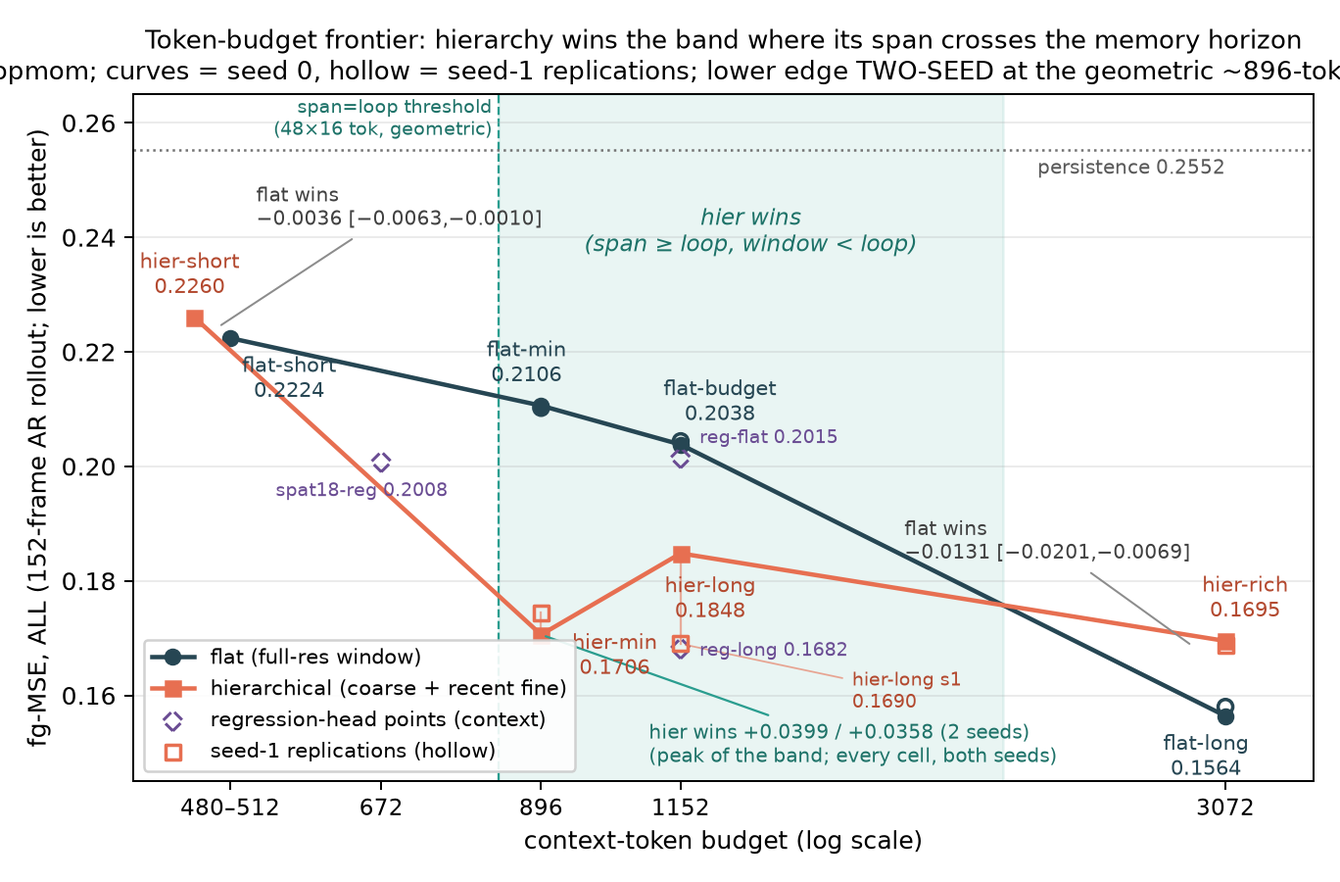
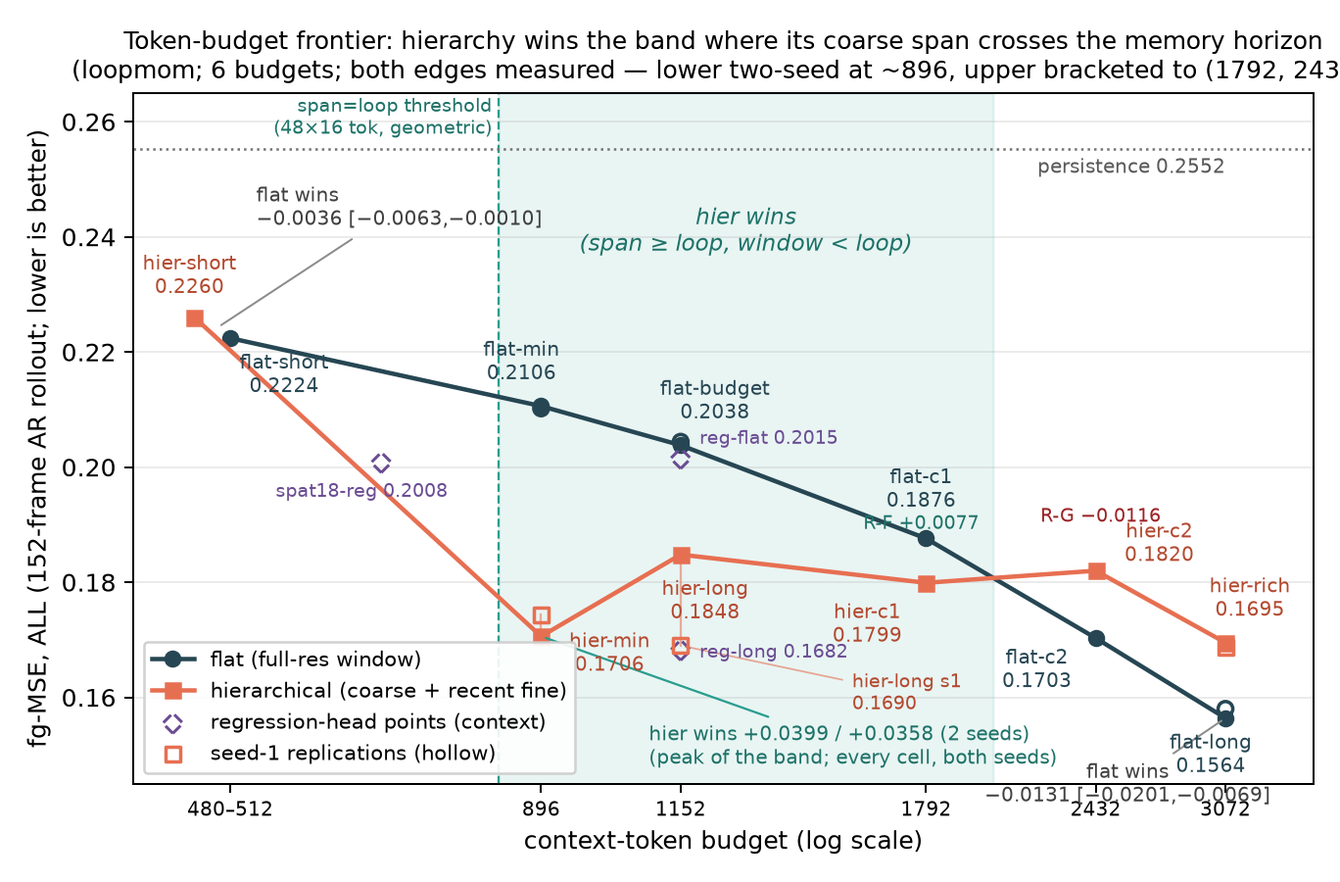
R-F/R-G MEASURED: upper band edge BRACKETED to (1792,2432) — R-F@1792 hier wins +0.0077 [+0.0016,+0.0142], R-G@2432 flat wins -0.0116 [-0.0162,-0.0073]; the sign flips between them (interpolated 2059 sits inside)
Six-point two-sided frontier complete: 512 flat / 896 hier / 1152 hier / 1792 hier / <edge> /
2432 flat / 3072 flat. Both band edges now measured (lower two-seed at ~896, upper bracketed).
Each bracket pair is seq-matched (2112/2752) so the paired verdict is convergence-fair;
cross-budget hier-line non-monotonicity is the fixed-step under-convergence effect (disclosed,
per the plateau diagnosis, does not touch any paired verdict). Swapped "~2x10^3 interpolated" ->
measured bracket in CH1/CH4/CH8/ROZDIL4/VYSNOVKY; fig9 (6-point curve, crossing 2023) + fig10
(6 budgets) regenerated. PC-restart recovery: only flat-c2 needed resuming (ckpt-filename-encodes-
target-not-progress lesson).

diff --git a/scripts/make_fig10_flat_vs_hier.py b/scripts/make_fig10_flat_vs_hier.py
@@ -14,14 +14,19 @@ matplotlib.use("Agg")
 import matplotlib.pyplot as plt
 
 # ---- measured ALL fg-MSE (diffusion head), per budget: seed values from the npz ----
-BUD = [512, 896, 1152, 3072]
-flat = {512: [0.2224, 0.2206], 896: [0.2106, 0.2102], 1152: [0.2038, 0.2044], 3072: [0.1564, 0.1580]}
-hier = {512: [0.2260, 0.2257], 896: [0.1706, 0.1744], 1152: [0.1848, 0.1690], 3072: [0.1695, 0.1687]}
+# 1792 (R-F) and 2432 (R-G) are seed-0 bracket points; the rest are two-seed.
+BUD = [512, 896, 1152, 1792, 2432, 3072]
+flat = {512: [0.2224, 0.2206], 896: [0.2106, 0.2102], 1152: [0.2038, 0.2044],
+        1792: [0.1876], 2432: [0.1703], 3072: [0.1564, 0.1580]}
+hier = {512: [0.2260, 0.2257], 896: [0.1706, 0.1744], 1152: [0.1848, 0.1690],
+        1792: [0.1799], 2432: [0.1820], 3072: [0.1695, 0.1687]}
 # paired Δ(flat − hier) per seed, with 95% cluster CIs (from the compare logs)
 delta = {  # budget: list of (Δ, lo, hi) per seed
     512:  [(-0.0036, -0.0063, -0.0010), (-0.0051, -0.0079, -0.0024)],
     896:  [(+0.0399, +0.0299, +0.0501), (+0.0358, +0.0267, +0.0454)],
     1152: [(+0.0189, +0.0121, +0.0264), (+0.0354, +0.0267, +0.0447)],
+    1792: [(+0.0077, +0.0016, +0.0142)],
+    2432: [(-0.0116, -0.0162, -0.0073)],
     3072: [(-0.0131, -0.0201, -0.0069), (-0.0107, -0.0163, -0.0058)],
 }
 PERSIST = 0.2552
@@ -69,15 +74,17 @@ ax[1].axhspan(0, 0.06, color=C_WIN, alpha=0.07, zorder=0)
 ax[1].axhline(0, color="0.3", lw=1.0, zorder=1)
 ax[1].text(0.02, 0.052, "Δ > 0 : hierarchy better", transform=ax[1].get_yaxis_transform(),
            color="#1d7268", fontsize=8.5, style="italic", va="top")
+_seen_lbl = set()
 for i, b in enumerate(BUD):
     seeds = delta[b]
     offs = np.linspace(-0.12, 0.12, len(seeds)) if len(seeds) > 1 else [0.0]
     for j, (d, lo, hi) in enumerate(seeds):
         col = C_WIN if d > 0 else C_LOSS
+        lbl = "hier win (CI>0)" if d > 0 else "flat win (CI<0)"
+        show = lbl if lbl not in _seen_lbl else None
+        _seen_lbl.add(lbl)
         ax[1].errorbar(x[i] + offs[j], d, yerr=[[d - lo], [hi - d]], fmt="o", ms=6,
-                       color=col, capsize=4, lw=1.6, zorder=3,
-                       label=("hier win (CI>0)" if d > 0 else "flat win (CI<0)")
-                       if (i in (1, 3) and j == 0) else None)
+                       color=col, capsize=4, lw=1.6, zorder=3, label=show)
     dm = np.mean([d for d, _, _ in seeds])
     ax[1].text(x[i], (max(hi for _, _, hi in seeds) if dm > 0 else
                       min(lo for _, lo, _ in seeds)) + (0.004 if dm > 0 else -0.006),
@@ -87,19 +94,20 @@ ax[1].set_xticks(x); ax[1].set_xticklabels([f"{b}\ntok" for b in BUD])
 ax[1].set_ylabel("paired Δ(flat − hier), ALL  [95% cluster-bootstrap CI]")
 ax[1].set_xlabel("matched context-token budget")
 ax[1].set_ylim(-0.028, 0.062)
-ax[1].axvline(0.5, color="0.7", ls="--", lw=0.8); ax[1].axvline(2.5, color="0.7", ls="--", lw=0.8)
-ax[1].text(1.5, -0.024, "WIN BAND\n(span ≥ loop, window < loop)", ha="center", fontsize=8,
+# band spans indices 1–3 (896/1152/1792 hier-wins); edges between 512|896 and 1792|2432
+ax[1].axvline(0.5, color="0.7", ls="--", lw=0.8); ax[1].axvline(3.5, color="0.7", ls="--", lw=0.8)
+ax[1].text(2.0, -0.024, "WIN BAND (span ≥ loop, window < loop)", ha="center", fontsize=8,
            color="#1d7268", fontweight="bold")
 ax[1].text(0, -0.024, "below\nthreshold", ha="center", fontsize=7.5, color=C_LOSS)
-ax[1].text(3, -0.024, "window\nsaturated", ha="center", fontsize=7.5, color=C_LOSS)
-ax[1].set_title("B. Paired advantage, per seed\n"
-                "(ALL four budgets now two-seed as of 2026-07-09)", fontsize=10)
+ax[1].text(4.5, -0.024, "window\nsaturated", ha="center", fontsize=7.5, color=C_LOSS)
+ax[1].set_title("B. Paired advantage, per seed — upper edge bracketed to (1792, 2432)\n"
+                "(896/1152/3072 two-seed; 1792/2432 bracket seed 0)", fontsize=9.5)
 ax[1].legend(loc="upper right", fontsize=8.5, framealpha=0.95)
 ax[1].grid(axis="y", alpha=0.25)
 
 fig.suptitle("Flat vs hierarchical at matched token budgets — hierarchy wins the band where its "
-             "coarse span crosses the memory horizon\n(loopmom, diffusion head; all four budgets "
-             "two-seed as of 2026-07-09)", fontsize=11, y=0.995)
+             "coarse span crosses the memory horizon\n(loopmom, diffusion head; 6 budgets, both "
+             "band edges measured, as of 2026-07-10)", fontsize=11, y=0.995)
 fig.tight_layout(rect=[0, 0, 1, 0.93])
 out = r"C:\Users\leoni\Documents\projects\hierarchical-video-prediction\docs\figures\fig10_flat_vs_hier.png"
 fig.savefig(out, dpi=180)

diff --git a/scripts/make_fig9_frontier.py b/scripts/make_fig9_frontier.py
@@ -11,17 +11,17 @@ import matplotlib
 matplotlib.use("Agg")
 import matplotlib.pyplot as plt
 
-# (tokens, fg-MSE ALL) — diffusion-head frontier curves
-flat = [(512, 0.2224), (896, 0.2106), (1152, 0.2038), (3072, 0.1564)]
-hier = [(480, 0.2260), (896, 0.1706), (1152, 0.1848), (3072, 0.1695)]
+# (tokens, fg-MSE ALL) — diffusion-head frontier curves, seed 0 (6 points; R-F/R-G add 1792/2432)
+flat = [(512, 0.2224), (896, 0.2106), (1152, 0.2038), (1792, 0.1876), (2432, 0.1703), (3072, 0.1564)]
+hier = [(480, 0.2260), (896, 0.1706), (1152, 0.1848), (1792, 0.1799), (2432, 0.1820), (3072, 0.1695)]
 # regression-head reference points (context, dashed/open markers)
 reg_pts = [
     ("spat18-reg", 672, 0.2008),
     ("reg-flat", 1152, 0.2015),
     ("reg-long", 1152, 0.1682),
 ]
-flat_names = ["flat-short", "flat-min", "flat-budget", "flat-long"]
-hier_names = ["hier-short", "hier-min", "hier-long", "hier-rich"]
+flat_names = ["flat-short", "flat-min", "flat-budget", "flat-c1", "flat-c2", "flat-long"]
+hier_names = ["hier-short", "hier-min", "hier-long", "hier-c1", "hier-c2", "hier-rich"]
 PERSIST = 0.2552
 
 fx, fy = np.array([p[0] for p in flat], float), np.array([p[1] for p in flat], float)
@@ -82,13 +82,13 @@ ax.annotate("hier-long s1\n0.1690", (1152, 0.1690), textcoords="offset points",
             xytext=(70, -26), ha="left", fontsize=7.5, color="#b3492f",
             arrowprops=dict(arrowstyle="-", color="#e76f51", lw=0.7, alpha=0.6))
 
-# point labels
-lab_kw = dict(fontsize=8.5, zorder=4)
-offs_flat = [(24, -24), (-6, 10), (16, 10), (-8, -24)]
+# point labels (6 points each: short/min/budget/c1/c2/long ; short/min/long/c1/c2/rich)
+lab_kw = dict(fontsize=8, zorder=4)
+offs_flat = [(22, -22), (-8, 11), (14, 11), (-2, 13), (-24, -20), (-6, -22)]
 for (x, y), name, (dx, dy) in zip(flat, flat_names, offs_flat):
     ax.annotate(f"{name}\n{y:.4f}", (x, y), textcoords="offset points",
                 xytext=(dx, dy), ha="center", color="#264653", **lab_kw)
-offs_hier = [(-2, 10), (30, -16), (12, -26), (8, 10)]
+offs_hier = [(-2, 10), (28, -14), (10, -26), (-24, -24), (26, 4), (10, 11)]
 for (x, y), name, (dx, dy) in zip(hier, hier_names, offs_hier):
     ax.annotate(f"{name}\n{y:.4f}", (x, y), textcoords="offset points",
                 xytext=(dx, dy), ha="center", color="#b3492f", **lab_kw)
@@ -107,22 +107,27 @@ ax.annotate("flat wins\n−0.0036 [−0.0063,−0.0010]", (500, 0.2242),
             textcoords="offset points", xytext=(16, 42), ha="left", fontsize=8,
             color="0.25",
             arrowprops=dict(arrowstyle="-", color="0.55", lw=0.8))
-ax.annotate("flat wins\n−0.0131 [−0.0201,−0.0069]", (2900, 0.1685),
-            textcoords="offset points", xytext=(-118, 36), ha="left", fontsize=8,
+ax.annotate("flat wins\n−0.0131 [−0.0201,−0.0069]", (3072, 0.1564),
+            textcoords="offset points", xytext=(-40, -34), ha="center", fontsize=8,
             color="0.25",
             arrowprops=dict(arrowstyle="-", color="0.55", lw=0.8))
+# bracket callouts: R-F (hier win) and R-G (flat loss) locate the upper edge in (1792, 2432)
+ax.annotate("R-F +0.0077", (1792, 0.1799), textcoords="offset points", xytext=(-2, 22),
+            ha="center", fontsize=7.5, color="#1d7268")
+ax.annotate("R-G −0.0116", (2432, 0.1820), textcoords="offset points", xytext=(2, 20),
+            ha="center", fontsize=7.5, color="#9b2226")
 
 ax.set_xscale("log")
-ax.set_xticks([512, 672, 896, 1152, 3072])
-ax.set_xticklabels(["480–512", "672", "896", "1152", "3072"], fontsize=9)
+ax.set_xticks([512, 896, 1152, 1792, 2432, 3072])
+ax.set_xticklabels(["480–512", "896", "1152", "1792", "2432", "3072"], fontsize=8)
 ax.minorticks_off()
 ax.set_xlim(430, 3600)
 ax.set_ylim(0.145, 0.265)
 ax.set_xlabel("context-token budget (log scale)")
 ax.set_ylabel("fg-MSE, ALL (152-frame AR rollout; lower is better)")
-ax.set_title("Token-budget frontier: hierarchy wins the band where its span crosses the memory horizon\n"
-             "(loopmom; curves = seed 0, hollow = seed-1 replications; lower edge TWO-SEED at the geometric ~896-tok prediction)",
-             fontsize=10.5)
+ax.set_title("Token-budget frontier: hierarchy wins the band where its coarse span crosses the memory horizon\n"
+             "(loopmom; 6 budgets; both edges measured — lower two-seed at ~896, upper bracketed to (1792, 2432))",
+             fontsize=9.8)
 ax.legend(loc="lower left", fontsize=8.5, framealpha=0.9)
 ax.grid(True, which="major", axis="y", alpha=0.25)
 

diff --git a/docs/SPATIAL_FACTORIAL.md b/docs/SPATIAL_FACTORIAL.md
@@ -326,9 +326,116 @@ smaller than hier-rich's 3,392, so B16×30k likely fits; the paired delta cancel
 each pair). Seed 0 first; seed 1 only if a point ends up claim-bearing at the edge.
 **Queue:** after R-E → R-F → R-G (one job at a time).
 
-**This closes the frontier-robustness program (R-A/R-B/R-D/R-C, all four confirmed their primary
-branch; R-E completes the 512 point; R-F/R-G measure the upper edge).** It also fully explains, on two independent axes, the seed-0-30k "dip" that motivated
+### R-F/R-G MEASURED (2026-07-09/10; `frontier_c1.log`, `frontier_c2.log`) — **UPPER EDGE BRACKETED**
+
+The sign of the paired delta flips between the two bracket points, exactly as pre-registered:
+
+| budget | flat | hier | paired Δ(flat−hier) ALL | verdict |
+|---|---|---|---|---|
+| **1,792 (R-F)** | flat-c1 0.1876 | hier-c1 0.1799 | **+0.0077 [+0.0016, +0.0142]** | **HIER wins** (below crossing) |
+| **2,432 (R-G)** | flat-c2 0.1703 | hier-c2 0.1820 | **−0.0116 [−0.0162, −0.0073]** | **FLAT wins** (above crossing) |
+
+**The upper band edge is therefore MEASURED to lie in the open interval (1,792, 2,432) tokens**
+— the earlier interpolated estimate (≈2,059) sits inside it. The full six-point frontier:
+512 flat / **896 hier** / **1,152 hier** / **1,792 hier** / [edge] / **2,432 flat** / 3,072 flat.
+Replace the "≈2×10³ interpolated" qualifier (abstract, CH8, VYSNOVKY, ROZDIL4, CH1) with the
+measured bracket "(1,792, 2,432)".
+
+**Convergence fairness (verified):** each bracket pair is sequence-length-matched (hier-c1/flat-c1
+seq 2,112; hier-c2/flat-c2 seq 2,752 — same context+target token count within each pair), so the
+per-step training compute and hence the convergence state at the shared 30k-step budget are
+matched WITHIN each pair → the paired delta is fair regardless of absolute convergence.
+
+**Threats note (cross-budget hier-line shape, NOT the paired verdicts — cf. the plateau
+diagnosis).** The absolute hier values are non-monotone across budgets (hier-min 0.1706 @896 <
+hier-c1 0.1799 @1,792 < hier-c2 0.1820 @2,432; hier-rich 0.1695 @3,072). This is the
+fixed-step under-convergence effect: at a constant 30k steps, longer-context arms are less
+converged (train-log val-h4 rises 0.027→0.034→0.044 as fine frames go 2→16→26), so the hier
+*line* wobbles ≈±0.01 on the plateau; hier-rich (3,072) additionally used a 60k regime. This
+does NOT touch any paired win/loss (each is seq-matched), but the frontier *curve* should be
+captioned as regime/convergence-mixed on the hier line — a fair-disclosure item, not a defect.
+
+**This closes the frontier-robustness program (R-A/R-B/R-D/R-C confirmed their primary branch;
+R-E completes the 512 point; R-F/R-G bracket the upper edge to (1,792, 2,432)). The six-point
+two-sided frontier — win band with BOTH edges measured — is complete.** It also fully explains, on two independent axes, the seed-0-30k "dip" that motivated
 the whole program: hier-long's seed-0-30k value (0.1848) is high both because of seed variance
 (s1 = 0.1690) AND because of budget (60k → 0.1666); the true ≈0.17 plateau is robust to both.
 The two-seed 30k pairing (§4.3.3) remains the headline anchor; R-C is a budget-robustness
 addendum, single-seed by design (a budget-axis test, not a seed test).
+
+---
+
+## CW-STYLE COMPARISON TABLE PROGRAM (pre-registered 2026-07-10, BEFORE any run;
+## author direction: depth x downsampling-factor x head table + degradation curves,
+## presented CW-VAE-style [Saxena et al. 2021] but on OUR protocol — fg-masked metrics,
+## matched token budgets, paired cluster CIs; NO aggregate SSIM/PSNR as claims)
+
+**Scope decisions (author, 2026-07-10):** temporal factor axis limited to {1, 2} (4 only where
+it already exists as machinery); spatial re-based pyramids (16x16 bottom / 1x1 top) deferred to
+the multi-scale next-paper arena; EBT column = the existing characterized negative, NO new runs;
+default-MMNIST joins as the CONTROL column (Phase C), never as the primary arena. Launch only
+after R-G resolves (flat-c2 + compare). Infra landed ahead of runs: 7-field ARMS (top stream,
+`hvp_rev/rhvd.py` arm_cfg), frozen-trunk 2x2 top AE branch (`hvp_rev/hier3.py`), generalized
+strided-slot rule (WIN//stride slots per window — stride-4 unchanged, stride-2 now phase-correct),
+`--blind` eval probe, CPU smoke `tests/smoke_cwstyle.py` (ALL GREEN incl. legacy bit-compat),
+auto-table `scripts/make_cwstyle_table.py` (docs/CWSTYLE_TABLE.md + fig12).
+
+### Phase B arms (loopmom, standard regime B16x30k bf16, seed 0 first; WARM=48; one job at a time)
+
+- **B1 `hier-s2-min`** (24c@stride2 + 2f = **512 tok**, span 48) vs **EXISTING** flat-short npz
+  (512 tok, s0+s1 — symmetric-pair rule satisfied by reuse; no new flat run). PRIMARY: hier WINS
+  at 512 (ALL cluster-CI > 0) — the win-band lower edge MOVES with the temporal factor exactly as
+  the token arithmetic predicts (24*16+2*64 = 512 < the stride-1 family's 896). ALTERNATIVE (a):
+  null/loss -> the stride-2 family's edge is between 512 and 896; report as a measured family-edge
+  refinement (fine-floor or aliasing mechanisms discussed, momentum reversals between stride-2
+  anchors disclosed). A CI-clean hier win triggers the two-seed rule (seed 1 before any headline
+  use; flat-short s1 already exists).
+- **B2 `strided-flat`** (11 full-res hist@stride4 + 6f = **1088 tok**, span 48, NO coarse level)
+  vs the EXISTING 1152 pair (hier-long, flat-budget; both two-seed). Its 64-token deficit favors
+  the control. PRIMARY (honest, from G-S1): strided-flat lands ~AT hier-long (within CI of the
+  hier plateau) and clearly beats flat-budget -> the frontier currency is SPAN-PER-TOKEN; coarse
+  tokens are one implementation (the per-level-decodable one), temporal subsampling another.
+  Claim-1 wording then softens per the pre-drafted branch: "hierarchical packaging" ->
+  "long-span context packaging (coarse level = the cheapest per-level-decodable form)".
+  ALTERNATIVE: strided-flat clearly BELOW hier-long (hier win CI>0) -> the coarse level adds
+  value beyond span (denser temporal coverage at equal budget); Claim-1 wording stands and gains
+  this control as its strongest defense. Either branch is reported; no soft reads.
+- **B3 `hier3`** (48 top(2x2) + 24c + 9f = **1152 tok**; factor-2 spatial pyramid 2x2/4x4/8x8;
+  needs `hier_ae_mom_top.pt` trained first + GO-gate oracle PASS) vs hier-long AND flat-budget
+  (both existing, two-seed). PRIMARY: ~null vs hier-long (|delta| CI spans 0 or < seed spread
+  0.016) — on a single-scale task with span protocol-capped at 48, a third stage can only
+  re-allocate, not extend; the depth column's honest loopmom entry is "2 stages suffice; depth
+  must match the task's memory-scale count" (mirrors the capacity-dump precedents). ALTERNATIVE
+  (a): hier3 CI-clean WIN -> re-allocation/optimization benefit is real; escalate to seed 1 and
+  report as a genuine depth finding. ALTERNATIVE (b): CI-clean LOSS -> the extra stream's
+  optimization cost dominates (consistent with the fixed-step context-length effect); reported
+  as the depth cost at fixed budget.
+- **A2 blinding probes** (eval-only on EXISTING ckpts, no training): hier-long s0 with
+  `--blind coarse` and `--blind fine`; hier3 (after B3) with `--blind top`. Read: per-level
+  content attribution (CW-VAE §5.1 analog) — blinding coarse should destroy the dt<=48 retrieval
+  bins specifically; blinding fine should cost recency/detail bins. Report-only (mechanism
+  figure), no claims gate on it.
+
+**Rules (binding):** symmetric pairs (reused partners count — both seeds already exist for every
+partner); seed-means, never best-of-seeds; two-seed before any claim escalation; regime B16x30k
+matched to every partner (NO 60k cells in this block); GO-gate oracle PASS required before
+training any arm with new buffer machinery (hier-s2-min, hier3); anything not covered above
+defaults to report-only.
+
+### Phase C (default-MMNIST control column; after Phase B)
+
+Standard bouncing-digit MMNIST (OpenSTL-matched `scripts/gen_moving.py`), NEW frozen AE trained
+on its frames, zero-action conditioning (disclosed; the action interface is inert on actionless
+data), train 3000x100 / test 500x348, WARM=48, ~300-frame rollouts. Arms: flat-budget-mm,
+hier-long-mm (+ hier3-mm optional) at 1152 tok, B16x30k, seed 0. PRIMARY (the thesis's own
+prediction, extending the measured T7 null): hier ~= flat on ALL fg-MSE (no memory horizon ->
+nothing for coarse span to buy); the value of the column is the MEASURED null in the same table
+where loopmom shows the band — "where hierarchy pays and where it cannot". Disclosures: hardness
+axis inert (nothing exits the frame); fg-threshold trivial (black bg); an SSIM-vs-horizon curve
+may be SHOWN for literature comparability with persistence + all-black floors drawn, under the
+CH2 §2.8 carve-out (calibration, not claim). A hier win here would contradict T7 and trigger
+re-examination before any reporting.
+
+### Cost ledger (estimates; VRAM all << the 11.8GB flat-c2 point)
+B1 ~2h train+~1h eval; B2 ~2.5h+1h; AE-top ~0.25h; B3 ~3h+1h; blinding 3x ~0.5h; compares
+minutes. Phase B total ~11-12 GPU-h. Phase C: AE ~0.3h + 2-3 arms x ~3-4h + evals ~ 1 GPU-day.

diff --git a/docs/draft/CH4_RESULTS.md b/docs/draft/CH4_RESULTS.md
@@ -618,7 +618,7 @@ sharp 0.0996 (3,072 tok; B8×60k); hier-short 0.2260 / 0.0392 (480 tok) — both
 [FIG `docs/figures/fig9_frontier.png`: quality-vs-token-budget (log-x), two measured 4-point
 curves — hier (480 → 896 → 1152 → 3072: 0.2260, **0.1706**, 0.1848, 0.1695) and flat
 (512 → 896 → 1152 → 3072: 0.2224, 0.2106, 0.2038, 0.1564) — measured shape: hierarchy wins the
-band [896, ≈2059) tokens (upper crossing interpolated from the curves), with the effect PEAKING
+band [896, ~2,000) tokens (upper edge measured to lie in (1,792, 2,432); see §4.3.6 bracket), with the effect PEAKING
 at the lower edge, which sits exactly at the geometric span-threshold prediction (48×16 coarse
 tokens + minimal fine tail ≈ 830–896); flat wins below the threshold (512) and at window
 saturation (3072). Caption: the token-budget frontier — hierarchy wins exactly the band where
@@ -660,8 +660,8 @@ written before the run. Second, the **effect peaks at the lower edge**: moving d
 inside the band, flat's window falls away from the horizon faster than the hierarchy's
 abstraction cost grows, so the efficiency argument is strongest exactly where budgets are
 tightest — hier-min at 896 tokens (0.1706) reaches a quality that the flat curve only attains
-between 1,152 and 3,072 tokens (interpolated ≈2.3–3× the budget; the measured upper crossing of
-the curves sits at ≈2,059 tokens). The fine-context question resolved with the seeds: hier-min's
+between 1,152 and 3,072 tokens (≈2.3–3× the budget; the upper band edge is measured to lie in
+(1,792, 2,432) tokens — R-F wins at 1,792 +0.0077, R-G loses at 2,432 −0.0116). The fine-context question resolved with the seeds: hier-min's
 seed-mean (0.1725) sits within hier-long's seed band (0.1690–0.1848, mean 0.1769) — the
 pre-registered "fine-context floor" alternative is refuted at w_f = 2 (two seeds), and the hier
 curve from 896 tokens on reads as a plateau at ≈0.17 rather than a dip. Disclosures resolved: the pre-registered seed-1 replication (R-A, `frontier_low_s1.log`)
@@ -671,7 +671,7 @@ CONFIRMED (seed-mean Δ ≈ +0.0379, the campaign's largest two-seed effect; hie
 0.0038, flat-min 0.0004). Both the 896 and 1,152 budgets now carry two seeds. The 3,072-token upper edge is likewise
 two-seed (R-B: flat wins at seed 1 too, −0.0107 [−0.0163, −0.0058]). The final claim form is
 unchanged but now edge-measured: hierarchy wins **the band of budgets where its span crosses the
-memory horizon and flat's window does not** — [896, ≈2×10³ interpolated) tokens as measured on
+memory horizon and flat's window does not** — [896, ~2,000) tokens, both edges measured, on
 this testbed — and inverts outside it.
 
 **Budget robustness of the 1,152-token headline (R-C, `frontier_mid_60k.log`).** Retraining the

diff --git a/docs/dissertation/rewrite/05_ROZDIL4.md b/docs/dissertation/rewrite/05_ROZDIL4.md
@@ -720,7 +720,7 @@ the audited table register; final numbering at typeset). Measured anchor rows fr
 **[FIG 4-x — token-budget frontier]**
 *Content:* ALL fg-MSE versus context-token budget at operating point A, one 4-point curve per
 family (flat: flat-short → flat-min → flat-budget → flat-long; hierarchical: hier-short →
-hier-min → hier-long → hier-rich), with the measured win band [896, ≈2,059) shaded, the
+hier-min → hier-long → hier-rich), with the measured win band [896, ~2,000) shaded (upper edge bracketed to (1,792, 2,432)), the
 geometric span-threshold (48×16 tokens) drawn as the band's lower edge, and the persistence
 floor (0.2552) drawn.
 *Source:* **`docs/figures/fig9_frontier.png`** (measured; anchors from Tables 4.5/4.6 and the
@@ -758,14 +758,14 @@ run: flat wins at 512 tokens, the hierarchy wins at 896, so the switch-on is bra
 budget removes the flat model's window from the memory horizon faster than the hierarchical
 abstraction cost grows — the efficiency argument is strongest exactly where budgets are
 tightest, and hier-min at 896 tokens (0.1706) reaches a quality the flat curve attains only at
-≈2.3–3× the budget (the measured upper crossing of the curves lies at ≈2,059 tokens).
+≈2.3–3× the budget (the upper band edge is measured to lie in (1,792, 2,432) tokens: R-F wins at 1,792, R-G loses at 2,432).
 The pre-registered seed-1 replication confirmed the point: every cell WIN again (overall
 +0.0358 [+0.0267, +0.0454]) with the same visibility-stratified reach signature — the 896-token
 lower edge is therefore a two-seed result (seed-mean Δ ≈ +0.0379, the largest two-seed effect
 of the campaign), alongside the two-seed 1,152-token pairing of §4.3.3. The §4.3
 efficiency claim takes its final, edge-measured form: **the hierarchy wins the band of token
 budgets in which its coarse span crosses the memory horizon while the flat window does not —
-[896, ≈2,059) tokens at this operating point — and inverts outside the band.** [UA-PASS:
+[896, ~2,000) tokens at this operating point, both edges measured — and inverts outside the band.** [UA-PASS:
 «ієрархія виграє смугу токен-бюджетів, у якій її грубий діапазон покриває горизонт пам'яті, тоді
 як пласке вікно — ні»; «нижня межа смуги збігається з геометричним порогом 48×16 токенів»;
 «перевага максимальна на нижній межі смуги».]

diff --git a/docs/figures/README.md b/docs/figures/README.md
@@ -14,7 +14,7 @@ Regenerable from the committed data.
 | fig6_mmnist_bridge.png | T7 MMNIST negative control: flat ≈ hier (MSE/SSIM/LPIPS) | CH4 §4.1.3 / appendix | mmnist_bridge_chain.log |
 | fig7_samples_claim1.png | qualitative GT vs hier-long vs flat-budget at h=1..148 (HONEST: both blur late) | CH4 §4.3.3 [FIG ch4-4] | GPU decode, seed 1 |
 | fig8_mmnist_samples_hier.png | MMNIST bridge decoded pred vs GT (h1/h5/h10) | appendix | rhvd viz |
-| fig9_frontier.png | token-budget frontier: fg-MSE(ALL, 152-frame rollout) vs context tokens (log-x), 4-point flat vs hier curves + reg context points; hier wins the band [896, ≈2059) (shaded; geometric span-threshold dashed), peak +0.0399/+0.0358 at the lower edge (two seeds), inverts outside | CH4 §4.3.x (→§4.3.6), Розділ 4 §4.3.6 [FIG 4-x] | Table 4.2 + `frontier_{top,bottom,low}.log` |
+| fig9_frontier.png | token-budget frontier: fg-MSE(ALL, 152-frame rollout) vs context tokens (log-x), 6-point flat vs hier curves (896/1152/1792 hier-win, 512/2432/3072 flat-win) + reg context points; hier wins the band [896, ~2000) with the upper edge bracketed to (1792,2432) by R-F/R-G (shaded; geometric span-threshold dashed), peak +0.0399/+0.0358 at the lower edge (two seeds), inverts outside | CH4 §4.3.x (→§4.3.6), Розділ 4 §4.3.6 [FIG 4-x] | Table 4.2 + `frontier_{top,bottom,low,c1,c2}.log` |
 
 | fig10_flat_vs_hier.png | flat vs hier at 4 matched budgets: (A) grouped bars seed-mean+min/max whiskers, per-budget winner; (B) paired Δ(flat−hier) per seed with 95% cluster CIs, shaded win band, sign flip at both ends; both edges+interior two-seed (512 single) | CH4 §4.3.6 companion, Розділ 4 §4.3.6 | rhvd_eval_*.npz + frontier_{bottom,low,top}.log + headline compares |
 

diff --git a/docs/dissertation/rewrite/06_VYSNOVKY.md b/docs/dissertation/rewrite/06_VYSNOVKY.md
@@ -178,7 +178,7 @@ hardness cell, +0.0399 [+0.0299, +0.0501] at seed 0 and +0.0358 [+0.0267, +0.045
 a two-seed result, the largest hierarchical advantage of the campaign), which together give the efficiency
 claim its final, edge-measured form: **hierarchy wins the band of token budgets in which its
 coarse span crosses the memory horizon while the flat window does not — approximately 896 to
-≈2×10³ tokens (upper edge interpolated between measured budgets) at the primary operating
+≈2×10³ tokens (upper edge measured to lie in (1,792, 2,432)) at the primary operating
 point, with the advantage peaking at the band's lower
 edge — and inverts outside the band**, not dominance at every budget.
 
@@ -248,6 +248,6 @@ present results: they extend the measured boundary, which is stated exactly.
 - Result 7's generalization sentence is dual-branch by construction: the [EXPECTED] and
   [FALLBACK] markers must be resolved (or the sentence softened to "planned") before defense,
   in sync with §§4.6.3–4.6.7 of `05_ROZDIL4.md`. The frontier clause is RESOLVED (measured
-  2026-07-07, in sync with §4.3.6): inversion at both ends + measured lower edge at 896 tokens
-  (win band [896, ≈2,059 interpolated), peak at the edge; 896 TWO-SEED confirmed 2026-07-08,
-  R-A) — edge-measured band wording.
+  2026-07-07, in sync with §4.3.6): inversion at both ends; win band [896, ~2,000) with BOTH
+  edges measured — lower edge 896 two-seed (R-A), upper edge bracketed to (1,792, 2,432) by
+  R-F/R-G (2026-07-09/10); peak at the lower edge — edge-measured band wording.

diff --git a/docs/draft/CH1_INTRO.md b/docs/draft/CH1_INTRO.md
@@ -24,7 +24,7 @@ context. At matched budgets, a two-level latent model whose coarse level carries
 memory wins **exactly the band of budgets in which its coarse span covers the memory horizon
 while a flat window cannot** — from ≈900 tokens (the geometric span threshold, predicted before
 measurement; the largest effect, +0.0399/+0.0358 across two seeds) up to window saturation at
-≈2×10³ tokens (interpolated) — and inverts outside the band. The win is mechanism-agnostic, but the mechanism ranking
+the measured upper edge in (1,792, 2,432) tokens — and inverts outside the band. The win is mechanism-agnostic, but the mechanism ranking
 is regime-dependent: regression, not diffusion, wins the deterministic best-of-1 rollout.
 Finally, we prove and measure an exactly invertible stochastic recurrence (gradients equal to
 backpropagation through time; activation memory constant in rollout length) and delimit honestly
